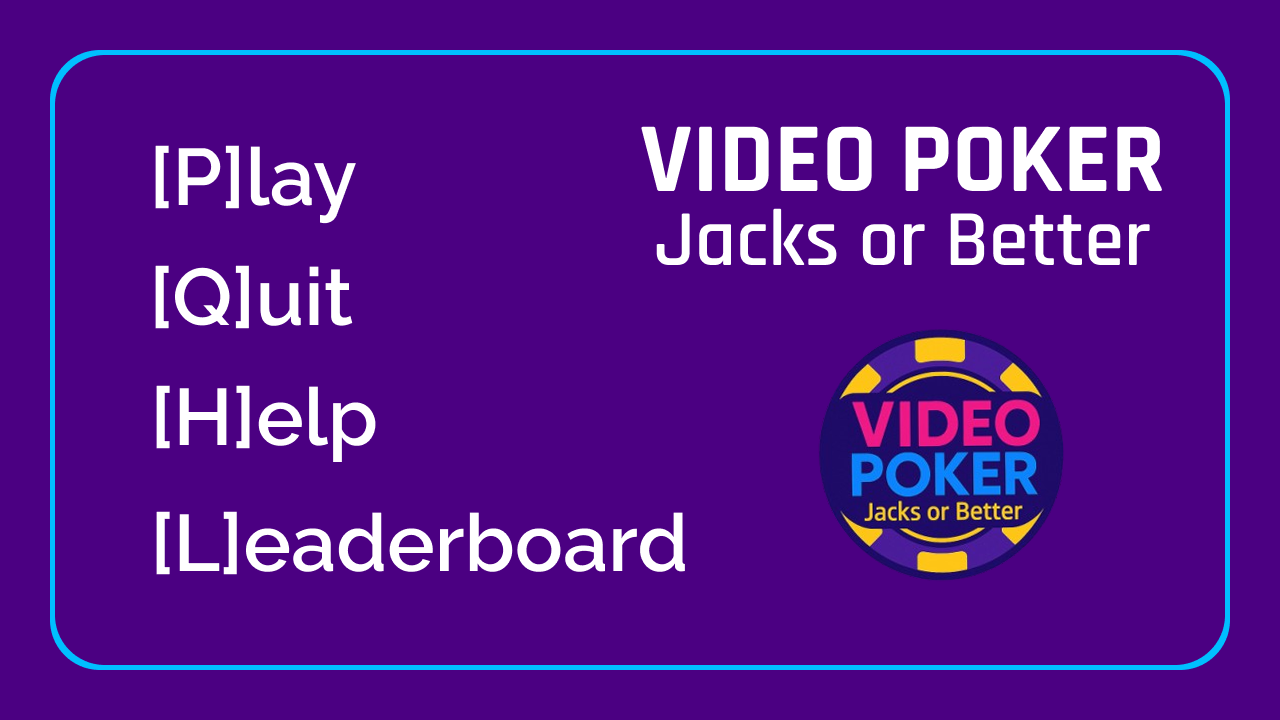
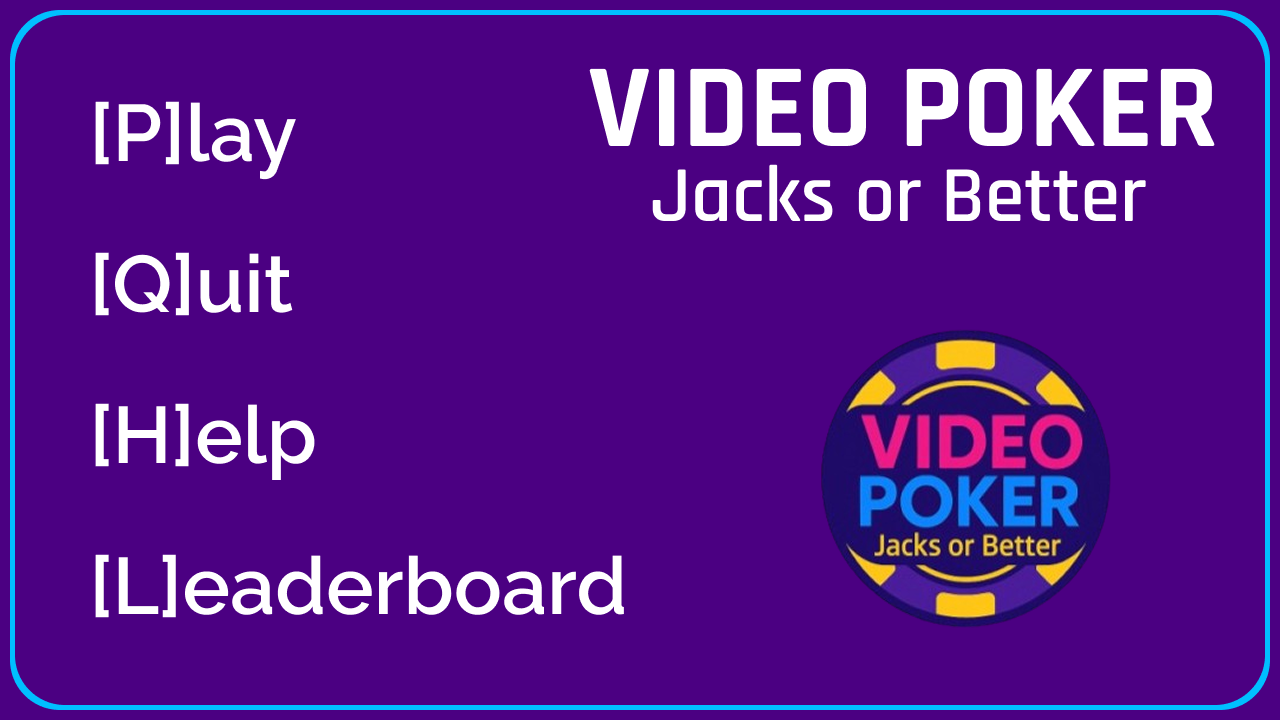
6/6/25 - 10:57AM
finished help menu

revamped ui

name enter code started working, the animation broke it again

diff --git a/CPTrio.java b/CPTrio.java
@@ -79,24 +79,58 @@ public class CPTrio{
 			if(charTitleInput == 'p' || charTitleInput == 'P'){
 				System.out.println("play game");
 				con.clear();
-				System.out.println("cleared");
-				con.setDrawColor(Color.BLACK);
-				con.fillRect(0, 0, 1280, 720);
-				con.repaint();
 				con.setDrawFont(txtFont);
-				con.setDrawColor(Color.WHITE);
-				String strName = "gurt";
+				String strName = "";
+				boolean blnNameEntered = false;
 				
-				while(true){
+				int intyName = -720;
+				con.setDrawColor(new Color(0, 0, 0, 128));
+				BufferedImage imgName = con.loadImage("assets/EnterName.png");
+				while(intyName != 0){
+					con.drawImage(imgMain, 0, 0);
+					con.fillRect(0, intyName, 1280, 720);
+					con.drawImage(imgName, 345, intyName+205);
+					con.repaint();
+					con.sleep(5);
+					intyName += 10;
+					System.out.println(intyName);
+				}
+				while(blnNameEntered == false){
+					System.out.println("resetting screen state");
+					
+					con.fillRect(0, intyName, 1280, 720);
+					con.drawImage(imgName, 345, intyName+205);
+					
+					con.setDrawColor(Color.WHITE);
+					con.drawString(strName, 534, 340);
+					System.out.println("reset");
+					
 					char charTyped = con.getChar();
 					if(charTyped == 8 && strName.length() > 0){
 						strName = strName.substring(0, strName.length()-1);
-					}else if(charTyped >= 32 || charTyped < 127){
+					}
+					if((charTyped < 32 || charTyped > 127)){
+						strName = strName;
+					}else{
 						strName = strName + charTyped;
-					}else if(charTyped == 27){
+					}
+					if(charTyped == 27){
+						while(intyName != -720){
+							con.setDrawColor(new Color(0, 0, 0, 128));
+							con.drawImage(imgMain, 0, 0);
+							con.fillRect(0, intyName, 1280, 720);
+							con.drawImage(imgName, 345, intyName+205);
+							con.repaint();
+							con.sleep(5);
+							intyName -= 10;
+							System.out.println(intyName);
+						}
 						mainMenu(con);
-					}else if(charTyped == '\n'){
-						if(strName.equals("")){
+					}
+					if(charTyped == '\n'){
+						if(!strName.equals("")){
+							blnNameEntered = true;
+						}else{
 							//con.drawImage(imgMain, 0, 0);
 							con.setDrawColor(Color.RED);
 							con.drawString("Invalid Name!", 534, 340);
@@ -107,15 +141,12 @@ public class CPTrio{
 							con.repaint();
 							strName = ""; 
 							continue;
-						}else{
-							break;
 						}
 					}
 					con.clear();
 					System.out.println(charTyped);
 					System.out.println(strName);
-					con.drawString(strName, 534, 340);
-					con.repaint();
+					con.sleep(5);
 				}
 				int intMoney;
 				if (strName.equals("statitan")){
@@ -180,9 +211,27 @@ public class CPTrio{
 			
 			if(charTitleInput == 'h' || charTitleInput == 'H'){
 				System.out.println("help");
-				con.println("help");
-				con.println("press any key to return");
-				con.getChar();
+				con.clear();
+				BufferedImage imgHelp1 = con.loadImage("assets/Help[0].png");
+				BufferedImage imgHelp2 = con.loadImage("assets/Help[1].png");
+				
+				con.drawImage(imgHelp1, 0, 0);
+				con.repaint();
+				while(true){
+					charReturn = con.getChar();
+					if(charReturn == 'h' || charReturn == 'H'){
+						break;
+					}
+				}
+				
+				con.drawImage(imgHelp2, 0, 0);
+				con.repaint();
+				while(true){
+					charReturn = con.getChar();
+					if(charReturn == 'h' || charReturn == 'H'){
+						break;
+					}
+				}
 			}
 		}
 	}
